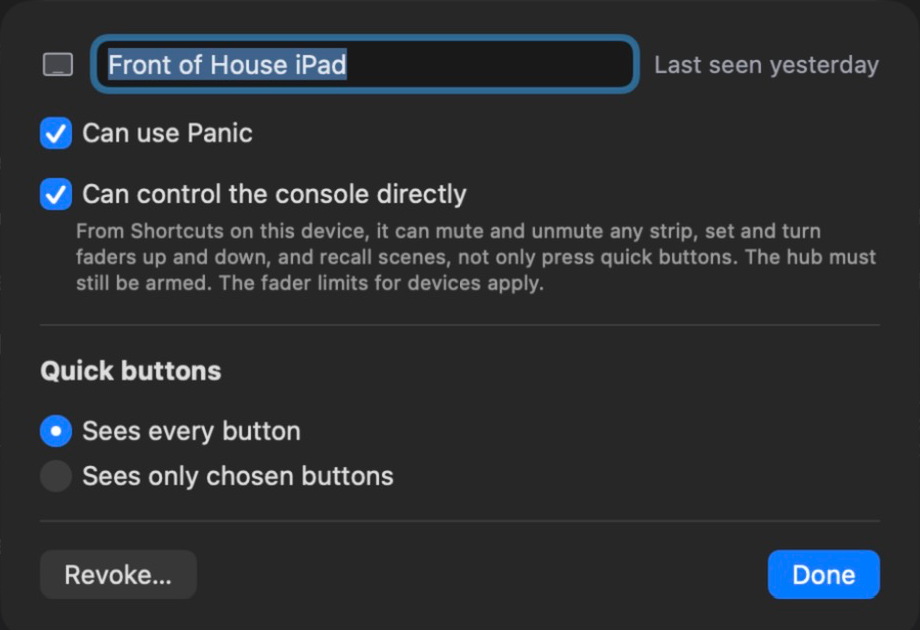
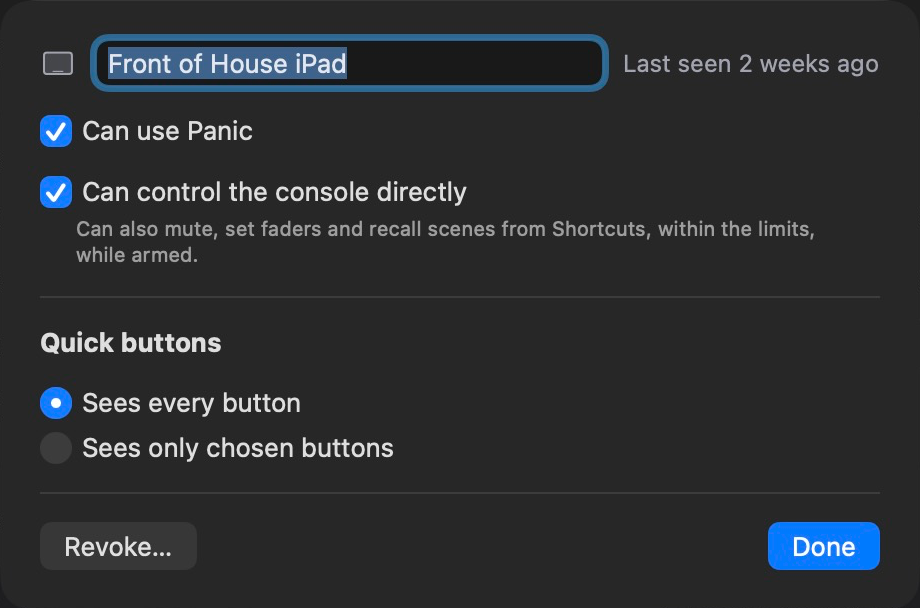
Manual and FAQ for 0.9.9: Remember and Put back, tap tempo, UFX sends, new screenshots

diff --git a/manual.html b/manual.html
@@ -224,7 +224,7 @@
 <tr><td><strong>Profile</strong></td><td>The set of mappings and quick buttons in use, and the menu for managing them. See <a href="#boards">Boards and profiles</a>.</td></tr>
 <tr><td><strong>Console pill</strong></td><td>The board's name, address and connection state. Click it for the board's settings.</td></tr>
 <tr><td><strong>Inputs pill</strong></td><td>Which inputs are on (MIDI, Live, OSC and its port) and a running count of messages received. Click it for the MIDI, OSC and Ableton settings.</td></tr>
-<tr><td><strong>Update</strong></td><td>Only appears when a new version was found while the hub was armed. See <a href="#updates">Updates</a>.</td></tr>
+<tr><td><strong>Update banner</strong></td><td>Appears across the top when a new version is ready. See <a href="#updates">Updates</a>.</td></tr>
 <tr><td><strong>Learn</strong></td><td>Build view only. Makes a mapping by example.</td></tr>
 <tr><td><strong>Armed / Disarmed</strong></td><td>Whether the hub may send to the console. Click to change. It glows only when armed <em>and</em> connected.</td></tr>
 <tr><td><strong>Panic</strong></td><td>Disarms at once and stops everything in progress.</td></tr>
@@ -256,7 +256,7 @@
 <ol>
 <li>Put the Mac on the same network as the Avantis.</li>
 <li>Click the console pill, or open <strong>Settings &gt; Console</strong>.</li>
-<li>Click <strong>Find</strong> beside <strong>Console IP</strong> and pick your console from the list, or type its address. You will find it on the console under Utility / Control / Network.</li>
+<li>Click <strong>Find</strong> beside <strong>Console IP</strong> and click <strong>Use</strong> beside your console, or type its address. You will find it on the console under Utility / Control / Network.</li>
 <li>Set <strong>Base MIDI channel</strong> to match the console, under Utility / Control / MIDI. The console's default is 12 to 16. The hub shows the range as "12 to 16" because the console uses five MIDI channels in a row.</li>
 <li>Set <strong>Firmware</strong> to match the console. Choose <strong>V2.0 and later</strong> unless the console is still on older firmware.</li>
 <li>Click <strong>Connect</strong>.</li>
@@ -266,11 +266,11 @@
 <h3>Firmware</h3>
 <p>Firmware V2.0 added inputs 65 to 96, more groups, auxes and matrices, and the UFX sends and returns. On <strong>Before V2.0</strong> the hub leaves those out and never sends to them. A mapping that points at something the chosen firmware does not have is put on hold and says why.</p>
 <h3>Finding the console</h3>
-<p><strong>Find</strong> asks the network which Avantis consoles are there and lists each one that answers, with its name, address and firmware. Click one to put its address in Console IP. That is all it does: it never connects and never changes an address by itself.</p>
+<p><strong>Find</strong> asks the network which Avantis consoles are there and lists each one that answers, with its name, address and firmware. <span class="new">New in 0.9.8</span> Click <strong>Use</strong> beside one to put its address in Console IP. The one already in the board says <strong>In use</strong>. That is all it does: it never connects and never changes an address by itself.</p>
 <ul>
 <li>It only reaches consoles on the same network as the Mac. A console on another network, reached through a router, does not answer and has to be typed in.</li>
 <li>Every Avantis gives the same name unless it has been renamed, so where there is more than one, check the address against the console's Utility / Control / Network screen.</li>
-<li>If the console's address changes, as it can when the network hands addresses out, click Find again and pick it.</li>
+<li>If the console's address changes, as it can when the network hands addresses out, click Find again and click Use beside it.</li>
 <li>When a board will not connect, the hub looks once for a console at another address. If exactly one that could be yours answers, a banner offers it, with <strong>Use This Address</strong> and <strong>Not Now</strong>. The hub never changes the address by itself. If two consoles answer, or the board's own address answers, it offers nothing.</li>
 </ul>
 <h3>One control connection at a time</h3>
@@ -284,19 +284,20 @@
 <li>A channel that has not moved since the hub connected shows what the hub remembers from last time, <strong>dimmed</strong>.</li>
 <li>A fader the hub has never seen move shows <strong>?</strong>. A mute it has not heard about on this connection shows <strong>MUTE ?</strong> with a dashed edge.</li>
 <li>As soon as a fader or mute changes, by hand or by a cue, the hub shows the live value.</li>
-<li>On firmware V2.0 and later, the experimental option below can fill most of them in as the hub connects.</li>
+<li>On firmware V2.0 and later, the option below can fill most of them in as the hub connects.</li>
 </ul>
 <p>The console only answers for the channels and mixes it is set up with, so a mix your console does not use keeps its plain number for a name.</p>
 <p>Remembered values are for your eyes only. The hub never uses a remembered value to decide anything.</p>
 <h3>Reading mutes and faders on connecting <span class="new">New in 0.9.7</span></h3>
 <p>With <strong>Read input mutes and faders on connecting</strong> switched on for a board, the hub makes one short extra visit to the console as it connects, on the connection Avantis Director uses. It reads where things are and leaves. It only reads, and it never changes anything.</p>
 <ul>
-<li>It fills in the inputs' mutes and fader levels, the DCAs' mutes and levels, the mute groups' mutes, and the mutes and levels of the stereo auxes, the mains and the stereo matrices.</li>
+<li>It fills in the inputs' mutes and fader levels, the DCAs' mutes and levels, the mute groups' mutes, the mutes and levels of the stereo auxes, the mains and the stereo matrices, and <span class="new">New in 0.9.8</span> each input's send levels to the UFX units.</li>
 <li>It only fills in what the hub does not already know. Anything that changed on this connection keeps its live value.</li>
 <li>If the visit fails for any reason, nothing changes and the hub carries on as it would without it. The Monitor says what happened.</li>
 <li>It is available on <strong>V2.0 and later</strong> only.</li>
+<li><span class="new">New in 0.9.8</span> It works with Avantis Director connected to the console at the same time.</li>
 </ul>
-<div class="note warn">This was worked out by watching how Director talks to the console, not from Allen &amp; Heath's documents. It is off unless you turn it on. Try it at a quiet console before relying on it in a service.</div>
+<div class="note warn">This was worked out by watching how Director talks to the console, not from Allen &amp; Heath's documents, and tried on firmware 2.0.1. It is off unless you turn it on. Try it at a quiet console before relying on it in a service.</div>
 <h3>Starting up automatically</h3>
 <ul>
 <li><strong>Connect when the app opens</strong> connects to the active board as soon as the hub starts.</li>
@@ -358,7 +359,7 @@
 <li><strong>Choose the target:</strong> move the fader or press the mute on the console, or click a target in the right-hand column.</li>
 <li><strong>Send the trigger:</strong> play the note, move the controller or send the OSC message.</li>
 </ol>
-<p>The hub joins the two into a mapping and opens it. While Learn is running, triggers are recorded, not run, so nothing happens on the console. If the trigger you send is already used by another mapping, the bar warns you: learning it adds a second mapping and both will fire. Click Learn again, or Cancel, to stop.</p>
+<p>The hub joins the two into a mapping and opens it. While Learn is running, triggers are recorded, not run, so nothing happens on the console. If the trigger you send is already used by another mapping, the bar warns you: learning it adds a second mapping and both will fire. Send a different trigger instead to use that one. Click Learn again, or Cancel, to stop.</p>
 <h3>Making a mapping by hand</h3>
 <ol>
 <li>Click <strong>+ New mapping</strong>.</li>
@@ -397,7 +398,7 @@
 <tr><td><strong>Value</strong></td><td>Follows the incoming value between a Min and a Max.</td><td>A physical fader or knob riding a level.</td></tr>
 </table>
 <p>For mutes, the hub says <strong>Muted</strong> and <strong>Unmuted</strong> instead of on and off, because "on" for a mute means silent, which reads backwards. Assignments say On and Off.</p>
-<p>For a fader in Value mode, <strong>Range</strong> gives the Min and the Max, as levels in dB. A controller at its lowest gives Min and at its highest gives Max. Tick <strong>-inf</strong> to make Min fully off. <strong>Invert</strong> turns it round, so the controller at its highest gives Min.</p>
+<p>For a fader in Value mode, <strong>Range</strong> gives the Min and the Max, as levels in dB. A controller at its lowest gives Min and at its highest gives Max. Choose <strong>-inf</strong> instead of <strong>dB</strong> to make Min fully off. <strong>Invert</strong> turns it round, so the controller at its highest gives Min.</p>
 <h3>The mapping list</h3>
 <ul>
 <li><strong>By trigger</strong> groups the list under each trigger, with everything it controls. <strong>By target</strong> groups it under each channel, with everything that controls it. A mapping with several targets appears under each.</li>
@@ -427,7 +428,7 @@
 <p>Inputs also offer:</p>
 <ul>
 <li><strong>Main assign:</strong> whether the input feeds the main mix. Turning it off takes the input out of the house without touching its aux sends, so in-ear mixes still hear it: a talkback switch for the band. A mute would cut the in-ears too.</li>
-<li><strong>Aux sends</strong> and <strong>FX sends</strong> from that input.</li>
+<li><strong>Aux sends</strong> and <strong>FX sends</strong> from that input, and <span class="new">New in 0.9.8</span> on V2.0 and later its sends to the eight <strong>UFX</strong> units, such as the send that feeds a delay.</li>
 <li><strong>DCA assign:</strong> membership of each of the 16 DCAs.</li>
 <li><strong>Mute group assign:</strong> membership of each of the 8 mute groups.</li>
 </ul>
@@ -531,7 +532,7 @@
 <li>Click <strong>Edit</strong>, then a button, to change it. While editing, drag buttons to reorder them.</li>
 <li>The <strong>-</strong> and <strong>+</strong> beside Edit change the size of the tiles.</li>
 </ul>
-<figure class="small"><img src="img/mac-button-editor.png" alt="The quick button editor." width="639" height="700" loading="lazy"><figcaption>The quick button editor.</figcaption></figure>
+<figure class="small"><img src="img/mac-button-editor.png" alt="The quick button editor." width="639" height="699" loading="lazy"><figcaption>The quick button editor.</figcaption></figure>
 <h3>In the editor</h3>
 <table>
 <tr><th>Field</th><th>What it does</th></tr>
@@ -539,15 +540,25 @@
 <tr><td>Keyboard shortcut</td><td>Click, then press the keys. It needs Command, Option or Control. Esc cancels and Delete clears.</td></tr>
 <tr><td>MIDI trigger</td><td>Click, then play the note or send the CC or program change that should press the button. Nothing is sent to the console while it waits.</td></tr>
 <tr><td>OSC address</td><td>Made from the name when the button is first saved, such as <code>/hub/trigger/pastor-up</code>. It stays the same if you rename the button later, so cues built on it keep working.</td></tr>
-<tr><td>Require confirm</td><td>The button needs two presses from a person: a click, a shortcut or a tap on a phone. The second press must follow within two seconds. MIDI and OSC always fire on the first, because whatever sends them cannot press twice.</td></tr>
+<tr><td>Require confirm (press twice)</td><td>The button needs two presses from a person: a click, a shortcut or a tap on a phone. The second press must follow within two seconds. MIDI and OSC always fire on the first, because whatever sends them cannot press twice.</td></tr>
 <tr><td>Runs these buttons first</td><td>Other buttons this one runs before its own actions.</td></tr>
-<tr><td>Actions</td><td>The changes it makes, in order. Click <strong>+ Add action</strong>, then pick a target. A mute action is set to Muted or Unmuted, and a fader action to a level, each with its own Snap or Glide. The x removes an action.</td></tr>
+<tr><td>Actions</td><td>The changes it makes, in order. Click <strong>+ Add action</strong>, then pick a target. A mute action is set to Muted or Unmuted. A fader or send action is set to a level in dB or to -inf, with <strong>Set to</strong>, <strong>Remember, then set to</strong> or <strong>Put back</strong> (below), and its own Snap or Glide. The x removes an action.</td></tr>
 <tr><td>Test</td><td>Sends the actions to the console once. Needs the hub armed and connected.</td></tr>
 <tr><td>Save, Delete</td><td>Save keeps the button. The x at the top closes without saving. Delete removes the button, and takes it out of any button that ran it.</td></tr>
 </table>
 <h3>Buttons that run other buttons</h3>
 <p>"Start of service" can run "Band on" and "Pastor up" and then add its own changes. A button runs whatever those buttons do <em>at the moment it is pressed</em>, so changing one changes every button that runs it. Where two set the same thing, the later one wins. The editor shows how many changes a press sends in all. A button cannot be made to run itself, directly or in a circle.</p>
 <p>When a button fires, the buttons it ran light up with it, on the Mac and on phones.</p>
+<h3>Remember and Put back <span class="new">New in 0.9.8</span></h3>
+<p>A button can turn a level down and another can put it back where it was, whatever that was. Talk back is the usual case: one button takes a singer's send to the vocal effects down, and Sing puts it back.</p>
+<ul>
+<li>In the action, choose <strong>Remember, then set to</strong> and a level. A press keeps the level as it is now, then sets the new one.</li>
+<li>In the other button, add an action on the same fader or send and choose <strong>Put back</strong>. A press sets it to the kept level.</li>
+<li>A second Remember before a Put back keeps the first level, so pressing talk back twice does not lose where the send was.</li>
+<li>Kept levels are kept with the board and survive quitting the hub.</li>
+<li>The hub must know the level to keep it. If it does not, the button shows a <strong>warning triangle</strong> in Show view, and a press leaves that level alone instead of guessing. The Monitor says "left as it is: the hub does not know its level yet". Moving it once at the desk with the hub connected, or <a href="#console">reading the levels on connecting</a>, fixes that.</li>
+<li>A Put back with nothing kept does nothing, and the Monitor says "nothing to put back".</li>
+</ul>
 <h3>Pressing</h3>
 <p>Click the tile, use its shortcut, send its MIDI trigger or OSC address, tap it on a phone, or use the menu bar panel. A tile is dimmed when the hub is disarmed or not connected. Hover over a tile to see its OSC address.</p>
 <h3>Which one is in effect <span class="new">New in 0.9.7</span></h3>
@@ -581,14 +592,15 @@
 <h3>Ableton Live</h3>
 <p>The hub reads from Live directly through <a href="https://github.com/gjmoseley-eng/AvantisHubOSC">AvantisHubOSC</a>, a free control surface script for Live. <span class="new">New in 0.9.9</span> It is a copy of <a href="https://github.com/ideoforms/AbletonOSC">AbletonOSC</a> made for the hub, with its own ports (11006 and 11007), so it runs beside AbletonOSC and apps that use it, such as StageView.</p>
 <ol>
-<li>Download <code>AvantisHubOSC.zip</code> from <a href="https://github.com/gjmoseley-eng/AvantisHubOSC/releases/latest">its latest release on GitHub</a>. It needs Live 11 or later.</li>
+<li>Download <code>AvantisHubOSC.zip</code> from <a href="https://github.com/gjmoseley-eng/AvantisHubOSC/releases/latest">its latest release on GitHub</a>, or click <strong>Get AvantisHubOSC…</strong> in the hub's Ableton Live settings. It needs Live 11 or later.</li>
 <li>Unzip it. You get a folder named <code>AvantisHubOSC</code>.</li>
 <li>Move that folder into <code>Music/Ableton/User Library/Remote Scripts</code> in your home folder, then restart Live.</li>
 <li>In Live, open Settings &gt; Link, Tempo &amp; MIDI and choose <strong>AvantisHubOSC</strong> in an empty Control Surface slot. Live shows "AvantisHubOSC: Listening for OSC on port 11006".</li>
-<li>In the hub, turn on <strong>Read song information from Ableton Live</strong>. The ports are already 11006 and 11007.</li>
+<li>In the hub, turn on <strong>Read song information from Ableton Live</strong>. A new board already uses 11006 and 11007. A board made before 0.9.9 keeps its ports: set <strong>Send to port</strong> to 11006 and <strong>Replies arrive on port</strong> to 11007.</li>
 </ol>
+<figure class="small"><img src="img/mac-settings-ableton.png" alt="Settings > Inputs, Ableton Live. Also under the Inputs pill." width="560" height="614" loading="lazy"><figcaption>Settings > Inputs, Ableton Live. Also under the Inputs pill.</figcaption></figure>
 <p>The hub only reads. It never plays, stops, moves or changes anything in Live.</p>
-<p>Plain AbletonOSC works too: set the board's ports to 11000 and 11001 under <strong>Live on another computer, or other ports</strong>. But AbletonOSC replies on one fixed port, so only one app on a Mac can then read from Live.</p>
+<p>Plain AbletonOSC works too: set <strong>Send to port</strong> to 11000 and <strong>Replies arrive on port</strong> to 11001. But AbletonOSC replies on one fixed port, so only one app on a Mac can then read from Live.</p>
 <h4>Session view: clips press quick buttons</h4>
 <p>Make a track in Live whose name starts with <strong>Hub</strong>, such as "Hub" or "Hub Lights". On it, add clips named after your quick buttons. When a clip on that track starts playing, the hub presses the quick button with the same name.</p>
 <p>This is off unless you switch it on: in the hub, under Ableton Live, turn on <strong>Press quick buttons from clip names</strong>. Leave it off if those clips also send the buttons' MIDI notes, or each button is pressed twice.</p>
@@ -604,7 +616,17 @@
 <p>The Monitor shows each press, and says so when a clip's name matches no button.</p>
 <h4>Arrangement view: locators</h4>
 <p>The hub also reads Live's locators, position, tempo and time signature. Locators appear in the Triggers column and can trigger mappings, and Show view's <strong>Up next</strong> card shows what is coming.</p>
-<div class="note">AvantisHubOSC, like AbletonOSC, replies on one fixed port, and only one app on a Mac can listen there. If another app already has it, the hub says so and keeps checking. If Live is on another computer, set its address under <strong>Live on another computer, or other ports</strong>. The ports are kept with the board.</div>
+<div class="note">AvantisHubOSC, like AbletonOSC, replies on one fixed port, and only one app on a Mac can listen there. If another app already has it, the hub says so and keeps checking. If Live is on another computer, put its address in <strong>Address</strong>. The address and ports are kept with the board, and are saved when the settings close.</div>
+<h4>The console's tap tempo <span class="new">New in 0.9.8</span></h4>
+<p>The console's UFX delays can follow the song. With <strong>Set the console's tap tempo from Live's tempo</strong> on, in the board's Options, the hub sets the console's Global Tap Tempo to Live's tempo.</p>
+<ul>
+<li>Only while the hub is armed and Live is playing.</li>
+<li>A new tempo goes out once it has held for one beat, so short steps at the ends of songs are left out.</li>
+<li>The console holds the beat in whole milliseconds, so the tempo goes to the nearest millisecond. The Monitor shows, for example, "Tap tempo → 114 BPM (526 ms)".</li>
+<li>The tempo can come from Ableton Live or from another app, over OSC with <code>/hub/song/tempo</code>.</li>
+<li>It is sent on the connection Avantis Director uses, worked out by watching Director, and tried on firmware 2.0.1. Try it before a service. If the console does not take it, the Monitor says "Could not set the console's tap tempo" and the hub tries again at the next tempo change, 10 seconds later at the soonest.</li>
+<li>Only delays set to follow the global tap tempo on the console change.</li>
+</ul>
 
 <nav class="pager" aria-label="More topics"><a class="prev" href="#buttons"><small>Previous</small>Quick buttons</a><a class="next" href="#osc"><small>Next</small>OSC reference</a></nav></section><section class="topic" data-topic="osc"><h2 id="osc">15. OSC reference</h2>
 <p>Send to the Mac's address on the hub's UDP port (9300 by default). Addresses are not case sensitive. <code>&lt;n&gt;</code> is the number shown on the console, starting at 1.</p>
@@ -634,7 +656,7 @@
 <tr><td><code>/hub/song/locators</code></td><td>name, position, name, position…</td><td>The whole list of markers. Send it again whenever it changes, or with no arguments to clear it.</td></tr>
 <tr><td><code>/hub/song/position</code></td><td>number</td><td>Where playback is now, in beats. Send it several times a second while playing.</td></tr>
 <tr><td><code>/hub/song/playing</code></td><td>0 or 1</td><td>Whether the transport is running.</td></tr>
-<tr><td><code>/hub/song/tempo</code></td><td>number</td><td>Tempo in BPM.</td></tr>
+<tr><td><code>/hub/song/tempo</code></td><td>number</td><td>Tempo in BPM. Also what the console's tap tempo follows, if that option is on.</td></tr>
 <tr><td><code>/hub/song/signature</code></td><td>two whole numbers</td><td>Time signature, for bar numbers. 4 4 is assumed until this arrives.</td></tr>
 </table>
 <p>There is no address to arm the hub.</p>
@@ -652,7 +674,7 @@
 </table>
 <ul>
 <li><strong>Raw bytes</strong> also shows the exact bytes exchanged with the console, for diagnosing.</li>
-<li><span class="new">New in 0.9.7</span> <strong>Only what the hub uses</strong> hides incoming MIDI that no mapping or quick button is set to, here and in the Triggers list, so an expression pedal or a busy controller does not bury the cues. Everything shows while learning.</li>
+<li><span class="new">New in 0.9.7</span> <strong>Only what the hub uses</strong> hides incoming MIDI that no mapping or quick button is set to, here and in the Triggers list, so an expression pedal or a busy controller does not bury the cues. Hidden messages are still counted in the Inputs pill. Everything shows while learning.</li>
 <li><span class="new">New in 0.9.7</span> A run of values from one control on one input folds into a single line with a count, such as <code>×24</code>, showing the latest value.</li>
 <li><strong>Clear</strong> empties the list.</li>
 <li><strong>Copy</strong> puts every line on the clipboard, handy when asking for help. Right-click a line for <strong>Copy Line</strong>.</li>
@@ -707,7 +729,7 @@
 <p>With room to spare, the buttons and the status sit side by side with no tabs. The buttons fill the width in as many columns as fit, and Recent scrolls in its own box. In Slide Over or a narrow Split View the app goes back to two tabs.</p>
 <h3>What a device may do</h3>
 <p>On the Mac, click a device in <strong>Settings &gt; Devices</strong> to open its settings:</p>
-<figure class="small"><img src="img/mac-device-sheet.png" alt="One device's settings." width="460" height="315" loading="lazy"><figcaption>One device's settings.</figcaption></figure>
+<figure class="small"><img src="img/mac-device-sheet.png" alt="One device's settings." width="460" height="304" loading="lazy"><figcaption>One device's settings.</figcaption></figure>
 <table>
 <tr><th>Setting</th><th>Meaning</th></tr>
 <tr><td>Name</td><td>How the device is listed.</td></tr>
@@ -766,20 +788,21 @@
 <p>Every Mac that chooses the folder uses the same boards, profiles, quick buttons and device limits, and picks up changes a few seconds after another Mac saves them.</p>
 <h3>What goes with each board <span class="new">New in 0.9.9</span></h3>
 <p>A board carries more than its console's address. Its <strong>Startup</strong> settings (connect when the app opens, arm when the console connects), the <strong>OSC</strong> port, and the <strong>Ableton Live</strong> link (on or off, the address and ports, and Press quick buttons from clip names) go with it, as do its Options. So every Mac that opens a board is set up the same way, and you can prepare one Mac and simply open the board on another.</p>
-<p>Try things on a board of their own, such as a replica of your console, so the real board stays as it is. When you are happy, open the real board and use <strong>Copy Settings From</strong> beside New Board to give it the other board's settings and options. It never copies the address, MIDI channel or firmware.</p>
+<p>The first time 0.9.9 or later opens, every board takes that Mac's settings, so nothing changes until you change it. The Monitor says how many boards took them.</p>
+<p>Try things on a board of their own, such as a replica of your console, so the real board stays as it is. When you are happy, open the real board and use <strong>Copy Settings From</strong>, under New Board, to give it the other board's settings and options. It never copies the address, MIDI channel or firmware.</p>
 <h3>What stays with each Mac</h3>
 <p>Paired devices, backups, which other MIDI inputs the hub listens to, and which board and profile are in use. MIDI inputs stay with each Mac because the same device can have a different name on each Mac, for example through Bome Network. Each Mac keeps its own dated backups, so one can always undo what another saved.</p>
 <h3>Changes during a service</h3>
-<p>If another Mac changes the profile in use, or the settings of the board in use, while this hub is <strong>armed</strong>, the change waits. A banner says so and offers to reload it. Nothing is swapped under you mid-service. When the hub is disarmed, a change to the board's settings is taken at once.</p>
+<p>If another Mac changes the profile in use, or the settings of the board in use, while this hub is <strong>armed</strong>, the change waits. A banner says so and offers to reload it. Nothing is swapped under you mid-service. When the hub is disarmed, a change to the board's settings is taken at once. Saving a change to that profile on this Mac before reloading keeps this Mac's version of it instead.</p>
 <h3>Conflicted copies</h3>
 <p>If two Macs edit while one is offline, the sync service may make a "conflicted copy". The hub brings those in as separate profiles so nothing is lost, and you can delete the one you do not want.</p>
 <h3>Stopping</h3>
-<p><strong>Stop Sharing</strong> offers to keep a copy of the shared boards and profiles on this Mac, or to go back to this Mac's own setup from before. The folder is left as it is for the other Macs. Choosing or leaving a shared folder disconnects from the console and disarms.</p>
+<p><strong>Stop Sharing</strong> offers to keep a copy of the shared boards and profiles on this Mac, or to go back to this Mac's own setup from before. Keeping a copy adds the shared boards and profiles to the ones this Mac had before sharing. The folder is left as it is for the other Macs. Choosing or leaving a shared folder disconnects from the console and disarms.</p>
 
 <nav class="pager" aria-label="More topics"><a class="prev" href="#names"><small>Previous</small>When channel names change</a><a class="next" href="#settings"><small>Next</small>Settings, tab by tab</a></nav></section><section class="topic" data-topic="settings"><h2 id="settings">22. Settings, tab by tab</h2>
 <p>Open with <strong>Avantis Hub &gt; Settings</strong> or Command-comma.</p>
 <h3>Devices</h3>
-<figure class="small"><img src="img/mac-settings-devices.png" alt="Fader limits and paired devices in Settings > Devices." width="559" height="570" loading="lazy"><figcaption>Fader limits and paired devices in Settings > Devices.</figcaption></figure>
+<figure class="small"><img src="img/mac-settings-devices.png" alt="Fader limits and paired devices in Settings > Devices." width="560" height="556" loading="lazy"><figcaption>Fader limits and paired devices in Settings > Devices.</figcaption></figure>
 <ul>
 <li>Whether devices on the network can find this Mac, and under what name.</li>
 <li><strong>Pair a Device</strong>.</li>
@@ -787,27 +810,27 @@
 <li><strong>Paired devices:</strong> one line each with what it may do and when it was last seen. Click a device for its settings.</li>
 </ul>
 <h3>Console</h3>
-<figure class="small"><img src="img/mac-settings-console.png" alt="Settings > Console." width="559" height="619" loading="lazy"><figcaption>Settings > Console.</figcaption></figure>
+<figure class="small"><img src="img/mac-settings-console.png" alt="Settings > Console." width="560" height="655" loading="lazy"><figcaption>Settings > Console.</figcaption></figure>
 <ul>
-<li><strong>Connection</strong> tab: <strong>Board</strong>, <strong>New Board</strong> and <strong>Delete Board</strong>, then the board's <strong>Name</strong>, <strong>Console IP</strong> with <strong>Find</strong>, <strong>Base MIDI channel</strong> and <strong>Firmware</strong>.</li>
-<li><strong>Options</strong> tab, kept with the board: <strong>Send UFX key, scale and parameters</strong> (see <a href="#targets">What can be controlled</a>), <strong>Read input mutes and faders on connecting</strong> (see <a href="#console">Connecting to the console</a>), <strong>Set the console's tap tempo from Live's tempo</strong>, which while armed and while Live is playing sets the console's Global Tap Tempo to Live's tempo once a new tempo has held for one beat (sent on the port Avantis Director uses, so try it before a service), and <strong>Use the console's SoftKeys and MIDI strips as triggers</strong> (see <a href="#inputs">Sending cues</a>).</li>
+<li><strong>Connection</strong> tab: <strong>Board</strong>, <strong>New Board</strong>, <strong>Copy Settings From</strong> (see <a href="#sharing">Using more than one Mac</a>) and <strong>Delete Board</strong>, then the board's <strong>Name</strong>, <strong>Console IP</strong> with <strong>Find</strong>, <strong>Base MIDI channel</strong> and <strong>Firmware</strong>.</li>
+<li><strong>Options</strong> tab, kept with the board: <strong>Send UFX key, scale and parameters</strong> (see <a href="#targets">What can be controlled</a>), <strong>Read input mutes and faders on connecting</strong> (see <a href="#console">Connecting to the console</a>), <strong>Set the console's tap tempo from Live's tempo</strong> (see <a href="#inputs">The console's tap tempo</a>), and <strong>Use the console's SoftKeys and MIDI strips as triggers</strong> (see <a href="#inputs">Sending cues</a>).</li>
 <li><strong>Startup</strong> tab, kept with the board: <strong>Connect when the app opens</strong> and <strong>Arm when the console connects</strong>.</li>
 <li><strong>Connect</strong> or <strong>Disconnect</strong> is at the bottom of every tab.</li>
 <li><strong>Shape of a glide:</strong> Even or Eased.</li>
 </ul>
 <h3>Inputs</h3>
-<figure class="small"><img src="img/mac-settings-inputs.png" alt="Settings > Inputs." width="559" height="408" loading="lazy"><figcaption>Settings > Inputs.</figcaption></figure>
+<figure class="small"><img src="img/mac-settings-inputs.png" alt="Settings > Inputs, MIDI." width="560" height="391" loading="lazy"><figcaption>Settings > Inputs, MIDI.</figcaption></figure>
 <ul>
-<li><strong>MIDI:</strong> the name of the hub's port, or the reason it could not be opened, and a switch for each other MIDI input on the Mac. See <a href="#inputs">Sending cues</a>.</li>
+<li><strong>MIDI:</strong> the name of the hub's port, or the reason it could not be opened, and a switch for each other MIDI input on the Mac. These are kept on this Mac. See <a href="#inputs">Sending cues</a>.</li>
 <li><strong>OSC:</strong> Listen for OSC and the UDP port.</li>
-<li><strong>Ableton Live:</strong> the switch, the state of the link, and the address and ports.</li>
+<li><strong>Ableton Live:</strong> the switch, the state of the link, <strong>Get AvantisHubOSC…</strong>, <strong>Press quick buttons from clip names</strong>, and the address and ports. All but the link's state are kept with the board.</li>
 </ul>
 <h3>Sharing</h3>
-<figure class="small"><img src="img/mac-settings-sharing.png" alt="Settings > Sharing." width="559" height="440" loading="lazy"><figcaption>Settings > Sharing.</figcaption></figure>
+<figure class="small"><img src="img/mac-settings-sharing.png" alt="Settings > Sharing." width="560" height="379" loading="lazy"><figcaption>Settings > Sharing.</figcaption></figure>
 <p>The shared folder, if any, with <strong>Show in Finder</strong>, <strong>Choose Another Folder</strong> and <strong>Stop Sharing</strong>.</p>
 <h3>Updates</h3>
-<figure class="small"><img src="img/mac-settings-updates.png" alt="Settings > Updates." width="558" height="266" loading="lazy"><figcaption>Settings > Updates.</figcaption></figure>
-<p>The version you are running, <strong>Check for updates automatically</strong>, <strong>Check Now</strong> and when it last checked.</p>
+<figure class="small"><img src="img/mac-settings-updates.png" alt="Settings > Updates." width="560" height="239" loading="lazy"><figcaption>Settings > Updates.</figcaption></figure>
+<p>The version you are running, <strong>Check for updates automatically</strong>, <strong>Check Now</strong> and when it last checked. When an update is waiting, <strong>Show the Update</strong> opens it.</p>
 
 <nav class="pager" aria-label="More topics"><a class="prev" href="#sharing"><small>Previous</small>Using more than one Mac</a><a class="next" href="#updates"><small>Next</small>Updates</a></nav></section><section class="topic" data-topic="updates"><h2 id="updates">23. Updates</h2>
 <p>The hub checks for a new version once a day. Nothing downloads or installs until you say so. To check yourself, choose <strong>Avantis Hub &gt; Check for Updates</strong>.</p>
@@ -847,6 +870,8 @@
 <tr><td>Show view seems to be missing channels</td><td>Named is on, and those channels have no name on the console.</td></tr>
 <tr><td>A cue fires twice, or undoes itself</td><td>Two mappings share a trigger and a target. Look for the warning triangle.</td></tr>
 <tr><td>A device cannot find the Mac</td><td>Different network, or a network that stops devices seeing each other.</td></tr>
+<tr><td>The Monitor says the Avantis Hub MIDI port could not be opened</td><td>Something held MIDI on the Mac as the hub started. <span class="new">New in 0.9.8</span> The hub tries again every 2 seconds. If it says it gave up after 10 tries, quit and reopen the hub.</td></tr>
+<tr><td>The Monitor says it could not set the console's tap tempo</td><td>The console did not take it. The hub tries again at the next tempo change. See <a href="#inputs">The console's tap tempo</a>.</td></tr>
 <tr><td>Ableton link says another app is using the port</td><td>Another app on the Mac is already listening on that reply port. Use AvantisHubOSC on 11006 and 11007.</td></tr>
 </table>
 <nav class="pager" aria-label="More topics"><a class="prev" href="#keys"><small>Previous</small>Keyboard shortcuts</a></nav></section>

diff --git a/faq.html b/faq.html
@@ -246,11 +246,11 @@
 </div></details><details class="qa"><summary>Why can't I change the IP address?</summary><div class="body">
 <p>It is locked while connected. Click Disconnect first.</p>
 </div></details><details class="qa"><summary>Some faders show "?" or look dimmed.</summary><div class="body">
-<p>The console reports a fader or mute when it changes, and its MIDI control cannot be asked where everything is. A dimmed value is remembered from an earlier connection and may be out of date. A "?" has never been seen. Move the control once and the hub shows the live value. On firmware V2.0 and later, the experimental option "Read input mutes and faders on connecting" fills most of them in as the hub connects. See <a href="manual.html#console">the manual</a>.</p>
+<p>The console reports a fader or mute when it changes, and its MIDI control cannot be asked where everything is. A dimmed value is remembered from an earlier connection and may be out of date. A "?" has never been seen. Move the control once and the hub shows the live value. On firmware V2.0 and later, the option "Read input mutes and faders on connecting" fills most of them in as the hub connects. See <a href="manual.html#console">the manual</a>.</p>
 </div></details><details class="qa"><summary>What does "MUTE ?" mean?</summary><div class="body">
 <p>The console has not said whether that channel is muted since the hub connected. Pressing it mutes. Once the mute changes, by the hub or at the console, the button shows the real state.</p>
 </div></details><details class="qa"><summary>Can the hub read the mutes when it connects? <span class="new">New in 0.9.7</span></summary><div class="body">
-<p>Yes, as an experiment. Each board has an option, "Read input mutes and faders on connecting", that is off unless you turn it on. With it on, the hub makes one short read-only visit on the connection Avantis Director uses and fills in the mutes and fader levels of the inputs, DCAs, stereo auxes, mains and stereo matrices, and the mute groups' mutes. It was worked out by watching Director, not from Allen &amp; Heath's documents, so try it at a quiet console first.</p>
+<p>Yes, on firmware V2.0 and later. Each board has an option, "Read input mutes and faders on connecting", that is off unless you turn it on. With it on, the hub makes one short read-only visit on the connection Avantis Director uses and fills in the mutes and fader levels of the inputs, DCAs, stereo auxes, mains and stereo matrices, the mute groups' mutes, and each input's send levels to the UFX units. It works with Avantis Director open at the same time. It was worked out by watching Director, not from Allen &amp; Heath's documents, so try it at a quiet console first.</p>
 </div></details><details class="qa"><summary>Why does "turn up" from my phone say it needs the fader's level?</summary><div class="body">
 <p>Moving a fader "up by 3 dB" needs a known starting point. If the console has not reported that fader since the hub connected, the hub refuses instead of guessing. Move the fader once, or set it to a level instead.</p>
 </div></details><details class="qa"><summary>Why doesn't the hub know the current scene?</summary><div class="body">
@@ -329,7 +329,7 @@
 <details class="qa"><summary>What is the difference between a mapping and a quick button?</summary><div class="body">
 <p>A mapping ties one trigger to targets. A quick button is a named set of actions that can be pressed many ways: a click, a keyboard shortcut, MIDI, OSC, a phone, the menu bar or a clip in Live.</p>
 </div></details><details class="qa"><summary>Why does my button need two presses from the screen but one from MIDI?</summary><div class="body">
-<p>"Require confirm" is there to stop a slip of the hand. Whatever sends MIDI or OSC cannot press twice, so those fire on the first.</p>
+<p>"Require confirm (press twice)" is there to stop a slip of the hand. Whatever sends MIDI or OSC cannot press twice, so those fire on the first.</p>
 </div></details><details class="qa"><summary>I renamed a button. Do my OSC cues still work?</summary><div class="body">
 <p>Yes. The OSC address is fixed when the button is first saved and does not change with the name.</p>
 </div></details><details class="qa"><summary>I renamed a button. Does its Ableton clip still work?</summary><div class="body">
@@ -338,6 +338,10 @@
 <p>Yes, with "Runs these buttons first". It runs what they do at the moment of the press, so editing one changes every button that runs it.</p>
 </div></details><details class="qa"><summary>Two actions in one button set the same fader. Which wins?</summary><div class="body">
 <p>The later one.</p>
+</div></details><details class="qa"><summary>What do Remember and Put back do? <span class="new">New in 0.9.8</span></summary><div class="body">
+<p>A level action set to "Remember, then set to" keeps the level as it is, then sets the new one. Another button's "Put back" sets it back to the kept level. It suits talk back: one button takes a send down, Sing puts it back to wherever it was. See <a href="manual.html#buttons">the manual</a>.</p>
+</div></details><details class="qa"><summary>Why does a quick button show a warning triangle?</summary><div class="body">
+<p>It has a Remember action on a level the hub does not know yet, so a press would leave that level alone instead of guessing. Move that fader or send once at the desk with the hub connected, or turn on "Read input mutes and faders on connecting" for the board.</p>
 </div></details><details class="qa"><summary>Can I reorder buttons?</summary><div class="body">
 <p>On the Mac, click Edit and drag. On a phone or iPad, tap the arrows and drag. The device's order is its own.</p>
 
@@ -361,6 +365,8 @@
 <p>Yes, for each clip in that row that sits on a Hub track.</p>
 </div></details><details class="qa"><summary>The hub says another app is using Ableton's reply port.</summary><div class="body">
 <p>Only one app on a Mac can listen on a reply port. With plain AbletonOSC (11001) that is often another app such as StageView. Install AvantisHubOSC and use its ports, 11006 and 11007, and both work at once.</p>
+</div></details><details class="qa"><summary>Can the console's delays follow Live's tempo? <span class="new">New in 0.9.8</span></summary><div class="body">
+<p>Yes, on firmware V2.0 and later. Turn on "Set the console's tap tempo from Live's tempo" in the board's Options. While armed and while Live is playing, the console's Global Tap Tempo follows Live once a new tempo has held for one beat. Delays set to follow the global tap tempo on the console follow it. See <a href="manual.html#inputs">the manual</a>.</p>
 </div></details><details class="qa"><summary>Can the hub start or stop Live, or launch clips?</summary><div class="body">
 <p>No. It only reads from Live.</p>
 </div></details><details class="qa"><summary>Can I use MIDI clips in Live instead?</summary><div class="body">
@@ -402,7 +408,7 @@
 </div></details><details class="qa"><summary>How do I move my setup to another Mac?</summary><div class="body">
 <p>For a one-off, Export to File and Import from File in the Profile menu. To keep two Macs in step, share a folder under Settings &gt; Sharing.</p>
 </div></details><details class="qa"><summary>Someone changed the profile on another Mac while I was running a service.</summary><div class="body">
-<p>While your hub is armed the change waits, and a banner offers to reload it when you are ready.</p>
+<p>While your hub is armed the change waits, and a banner offers to reload it when you are ready. The same goes for the board's settings. Saving a change to the profile on your Mac first keeps your version of it instead.</p>
 </div></details><details class="qa"><summary>A profile called "(conflicted copy)" has appeared.</summary><div class="body">
 <p>Two Macs edited the same profile while out of touch. The hub kept both so nothing was lost. Compare them and delete the one you do not want.</p>
 </div></details><details class="qa"><summary>I moved a channel on the console and my mappings followed it. Is that right?</summary><div class="body">

diff --git a/release-notes.html b/release-notes.html
@@ -195,7 +195,7 @@
 <h3>Changed</h3>
 <ul>
 <li>Consoles found by Find are listed under their own heading, each with a Use button.</li>
-<li>The Ableton Live settings name the ports to use with StageView's relay (11004 and 11005), with which StageView and the hub can both read from Live on one Mac.</li>
+<li>The Ableton Live settings name the ports to use with StageView's relay (11004 and 11005), with which StageView and the hub can both read from Live on one Mac. Replaced in 0.9.9 by AvantisHubOSC: the relay is no longer used.</li>
 </ul>
 <h3>Fixed</h3>
 <ul>
